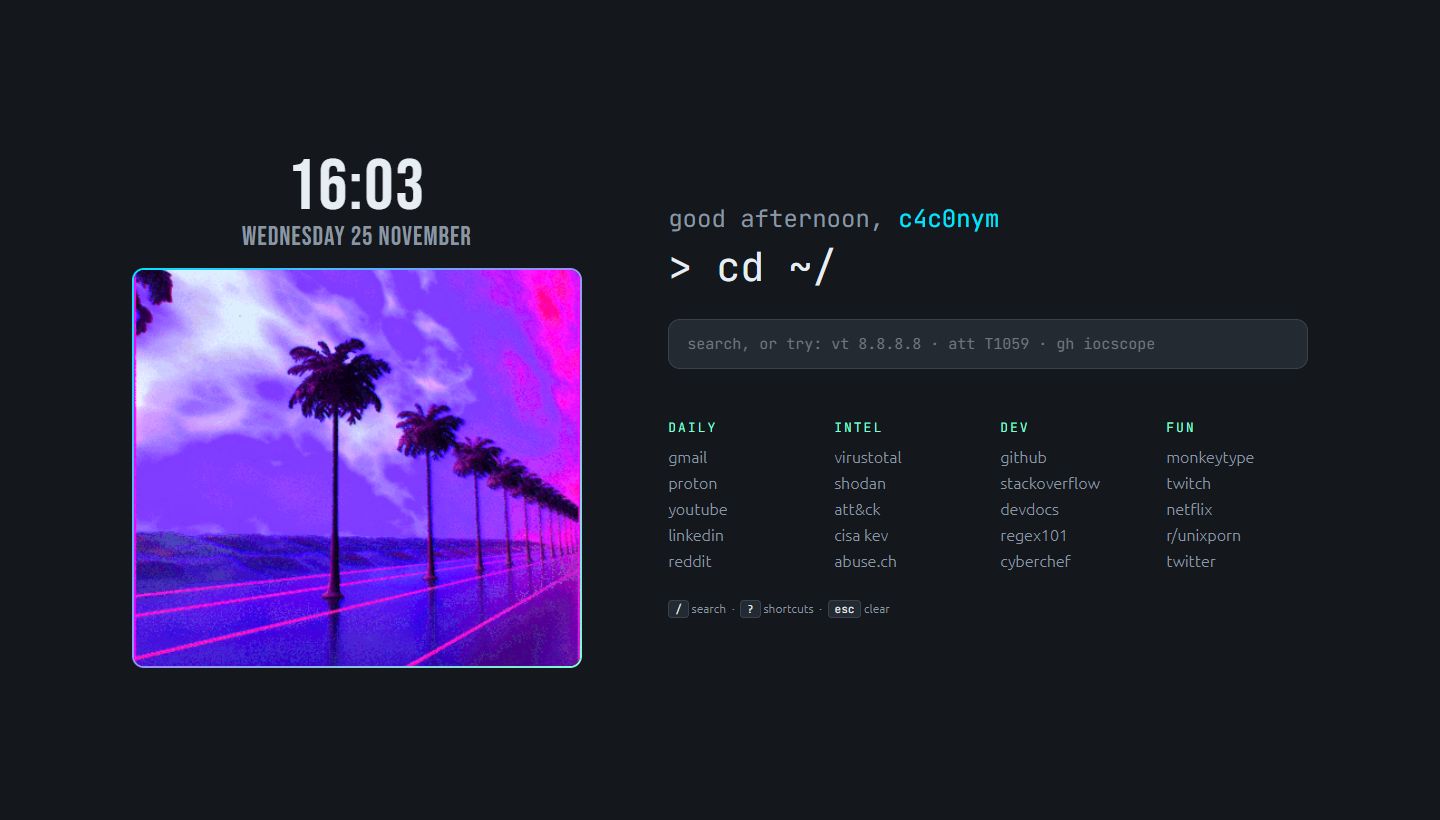
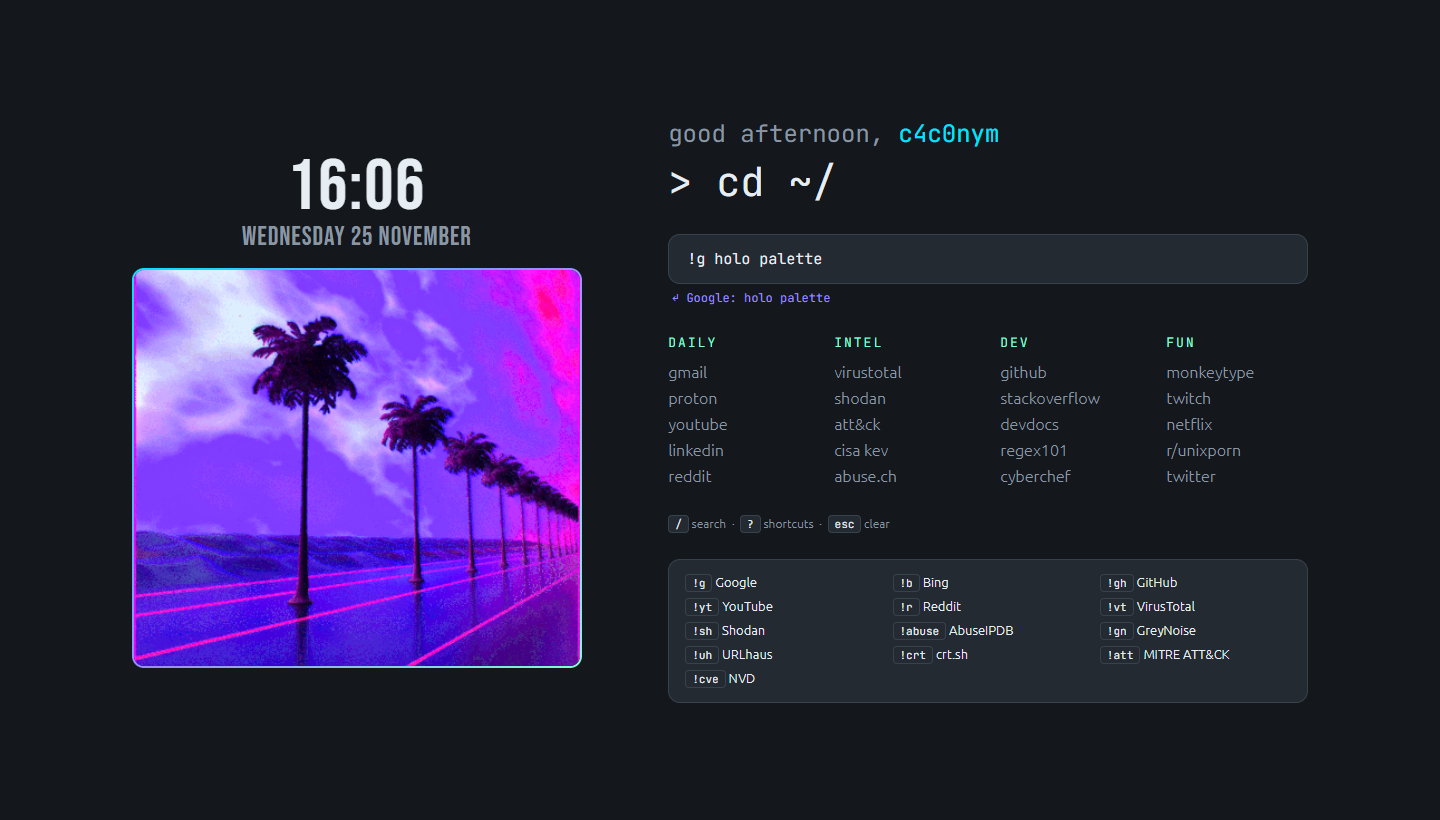
Add bang shortcuts (!g, !b, ...), keep DuckDuckGo as default, retake screenshot

diff --git a/script.js b/script.js
@@ -50,14 +50,25 @@
   const looksLikeUrl = (s) =>
     /^https?:\/\/\S+$/i.test(s) || /^(localhost|([\w-]+\.)+[a-z]{2,})(:\d+)?(\/\S*)?$/i.test(s);
 
+  // A shortcut is "<key> <text>", "!<key> <text>" or "<text> !<key>".
+  // Unknown bangs fall through to the default search, where DuckDuckGo handles them.
+  function parse(text) {
+    const words = text.split(/\s+/);
+    const find = (w, bang) => CONFIG.shortcuts[(bang ? w.replace(/^!/, "") : w).toLowerCase()];
+    const first = words[0], last = words[words.length - 1];
+    if (/^!\w+$/.test(first) && find(first, true)) return { sc: find(first, true), query: words.slice(1).join(" ") };
+    if (words.length > 1 && /^!\w+$/.test(last) && find(last, true)) return { sc: find(last, true), query: words.slice(0, -1).join(" ") };
+    if (find(first, false)) return { sc: find(first, false), query: words.slice(1).join(" ") };
+    return { sc: null, query: text };
+  }
+
   function resolve(raw) {
     const text = raw.trim();
     if (!text) return null;
-    const [first, ...rest] = text.split(/\s+/);
-    const sc = CONFIG.shortcuts[first.toLowerCase()];
-    if (sc && rest.length) {
-      return { label: `${sc.name}: ${rest.join(" ")}`,
-               url: sc.url.replace("%s", encodeURIComponent(rest.join(" "))) };
+    const { sc, query } = parse(text);
+    if (sc && query) {
+      return { label: `${sc.name}: ${query}`,
+               url: sc.url.replace("%s", encodeURIComponent(query)) };
     }
     if (looksLikeUrl(text) && !/^\d+(\.\d+){3}$/.test(text)) {   // a bare IP is searched, not opened
       return { label: `open ${text}`, url: /^https?:\/\//i.test(text) ? text : `https://${text}` };
@@ -66,10 +77,10 @@
   }
 
   q.addEventListener("input", () => {
-    const r = resolve(q.value);
-    const [first] = q.value.trim().split(/\s+/);
-    const sc = CONFIG.shortcuts[(first || "").toLowerCase()];
-    $("hint").textContent = r ? (sc && !/\s/.test(q.value.trim()) ? `${sc.name} …` : `↵ ${r.label}`) : "";
+    const text = q.value.trim();
+    const r = resolve(text);
+    const { sc, query } = text ? parse(text) : {};
+    $("hint").textContent = r ? (sc && !query ? `${sc.name} …` : `↵ ${r.label}`) : "";
   });
   $("search").addEventListener("submit", (e) => {
     e.preventDefault();
@@ -82,7 +93,7 @@
   for (const [key, sc] of Object.entries(CONFIG.shortcuts)) {
     const span = document.createElement("span");
     const kbd = document.createElement("kbd");
-    kbd.textContent = key;
+    kbd.textContent = "!" + key;
     span.append(kbd, ` ${sc.name}`);
     help.append(span);
   }

diff --git a/config.js b/config.js
@@ -6,13 +6,16 @@ const CONFIG = {
   // Left-hand picture. Click it on the page to cycle through these; the choice is remembered.
   gifs: ["vapor.gif", "clouds.gif", "waves.gif", "plane.gif", "bike.gif", "cat.gif", "vaporwave.gif", "rest.webp"],
 
-  // Default search. Anything that looks like a URL is opened directly instead.
+  // Default search: DuckDuckGo. Anything that looks like a URL is opened directly instead.
   search: "https://duckduckgo.com/?q=",
 
   // Type "<prefix> <text>" in the search box, e.g. "vt 8.8.8.8" or "att T1059".
+  // Every prefix also works as a bang, before or after the text: "!g cats", "cats !g", "!b weather".
+  // Bangs that are not listed here (e.g. "!w", "!a") are passed on to DuckDuckGo, which knows thousands.
   // %s is replaced by the (URL-encoded) text.
   shortcuts: {
     g:     { name: "Google",        url: "https://www.google.com/search?q=%s" },
+    b:     { name: "Bing",          url: "https://www.bing.com/search?q=%s" },
     gh:    { name: "GitHub",        url: "https://github.com/search?q=%s&type=repositories" },
     yt:    { name: "YouTube",       url: "https://www.youtube.com/results?search_query=%s" },
     r:     { name: "Reddit",        url: "https://www.reddit.com/search/?q=%s" },

diff --git a/index.html b/index.html
@@ -27,7 +27,7 @@
 
       <form id="search" class="search" autocomplete="off">
         <input id="q" type="text" spellcheck="false" aria-label="Search"
-               placeholder="search, or try: vt 8.8.8.8 · att T1059 · gh iocscope">
+               placeholder="search, or try: !g cats · !b weather · vt 8.8.8.8 · att T1059">
         <div id="hint" class="hint" aria-live="polite"></div>
       </form>
 

diff --git a/README.md b/README.md
@@ -12,7 +12,7 @@ bookmarks, next to a retro gif you can click to switch.
 - **Clock and greeting** that follow your local time, on a 24-hour clock.
 - **Search box.** Press <kbd>/</kbd> from anywhere to focus it. Plain text goes to DuckDuckGo,
   and anything that looks like an address (`github.com/c4c0nym`) is opened directly.
-- **Shortcuts:** type a prefix and then your query. Press <kbd>?</kbd> on the page for the full list.
+- **Shortcuts and bangs:** type a prefix and then your query, with or without a `!`, before or after the text: `g cats`, `!g cats` and `cats !g` all search Google. Press <kbd>?</kbd> on the page for the full list. Bangs that are not in the list (`!w`, `!a`, ...) are passed on to DuckDuckGo, which supports thousands.
 
   | Prefix | Goes to | Example |
   |---|---|---|
@@ -24,7 +24,8 @@ bookmarks, next to a retro gif you can click to switch.
   | `crt` | crt.sh (certificate transparency) | `crt %.example.com` |
   | `att` | MITRE ATT&CK technique | `att T1059` |
   | `cve` | NVD | `cve CVE-2024-3400` |
-  | `g` / `gh` / `yt` / `r` | Google / GitHub / YouTube / Reddit | `gh iocscope` |
+  | `g` / `b` | Google / Bing | `!g cats`, `!b weather` |
+  | `gh` / `yt` / `r` | GitHub / YouTube / Reddit | `gh iocscope` |
 
 - **Pictures:** click the gif to cycle through the ones in this repo. Your choice is remembered.
 - **Responsive.** It works on narrow windows and respects "reduce motion".
